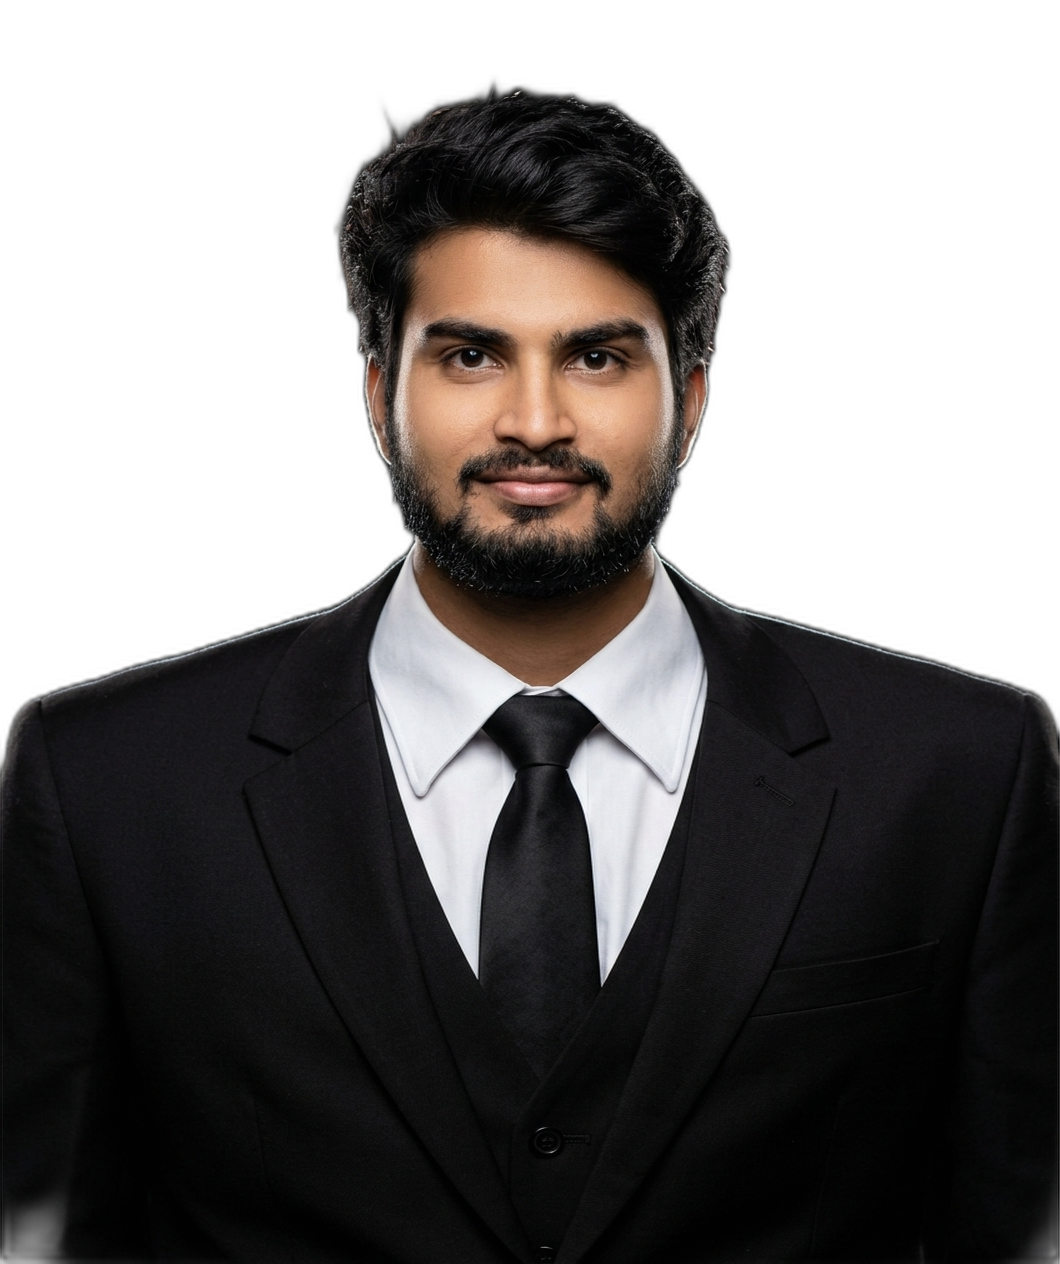
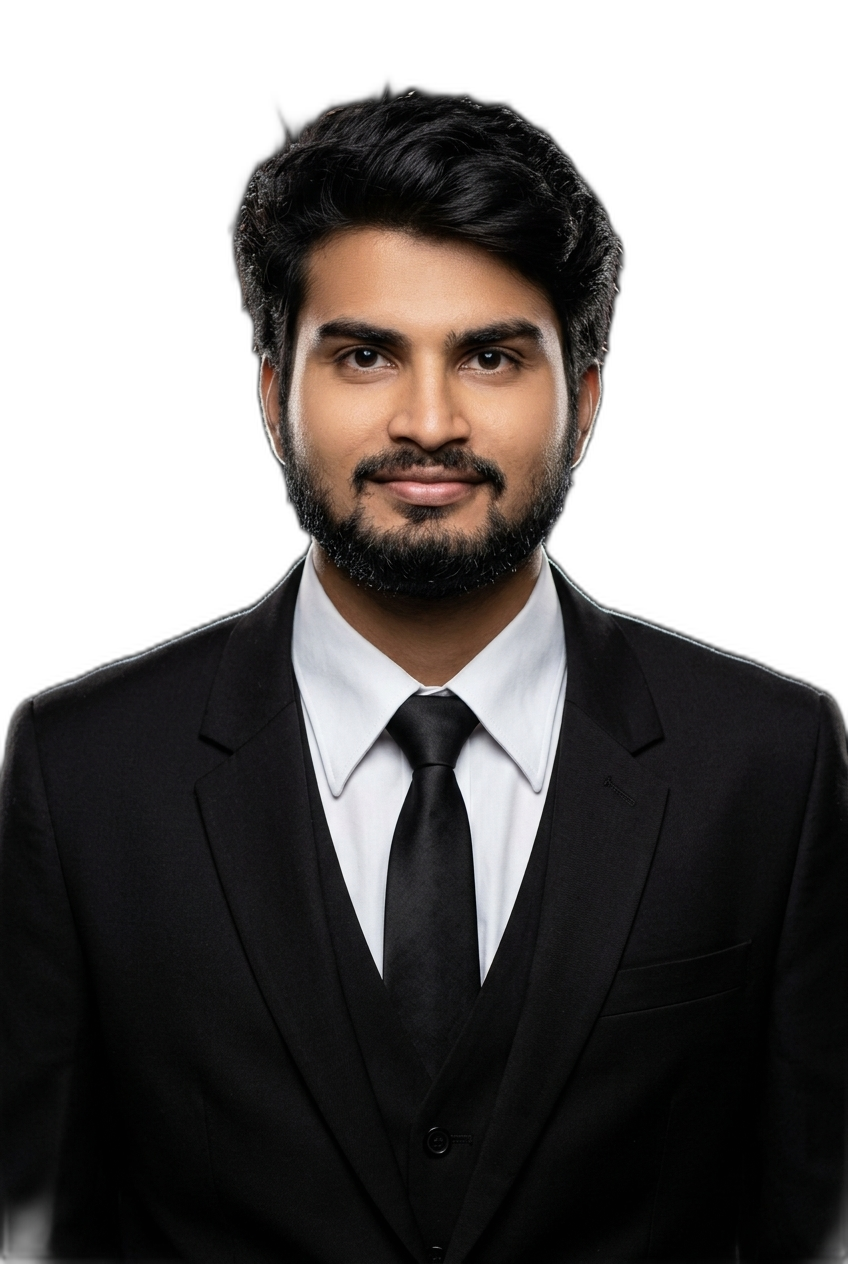
fix: adjust hero portrait to normal shoulder width and elevate background PORTFOLIO on mobile

Changed region(s): [[0.1226, 0.0617, 0.8892, 0.5554], [0.8892, 0.5245, 0.9505, 0.5554], [0.092, 0.5245, 0.1226, 0.5554]]

diff --git a/src/components/sections/Hero.jsx b/src/components/sections/Hero.jsx
@@ -30,15 +30,15 @@ export default function Hero({ onHoverSound, onClickSound }) {
           initial={{ opacity: 0, y: 30, scale: 0.95 }}
           animate={{ opacity: 1, y: 0, scale: 1 }}
           transition={{ duration: 1, ease: [0.16, 1, 0.3, 1] }}
-          className="relative z-10 w-full text-center pointer-events-none -mt-8 sm:-mt-16 md:-mt-20"
+          className="relative z-10 w-full text-center pointer-events-none -mt-40 sm:-mt-20 md:-mt-20"
         >
-          <h1 className="text-[13vw] sm:text-[15vw] font-black uppercase tracking-tight sm:tracking-normal leading-none font-display bg-gradient-to-b from-white via-zinc-200 to-zinc-600 bg-clip-text text-transparent drop-shadow-[0_20px_50px_rgba(0,0,0,0.9)]">
+          <h1 className="text-[17vw] sm:text-[15vw] font-black uppercase tracking-wider sm:tracking-normal leading-none font-display bg-gradient-to-b from-white via-zinc-100 to-zinc-400 bg-clip-text text-transparent drop-shadow-[0_20px_50px_rgba(0,0,0,0.9)]">
             PORTFOLIO
           </h1>
         </motion.div>
 
         {/* Layer 2: Dedicated Soft Studio Gray Backlight behind Head for Hair Definition */}
-        <div className="absolute bottom-12 left-1/2 -translate-x-1/2 z-15 w-[min(420px,90vw)] sm:w-[540px] h-[50vh] sm:h-[55vh] pointer-events-none bg-[radial-gradient(circle_at_50%_35%,rgba(180,185,195,0.32)_0%,rgba(110,115,125,0.16)_40%,transparent_70%)]" />
+        <div className="absolute bottom-12 left-1/2 -translate-x-1/2 z-15 w-[min(360px,84vw)] sm:w-[480px] h-[50vh] sm:h-[55vh] pointer-events-none bg-[radial-gradient(circle_at_50%_35%,rgba(180,185,195,0.32)_0%,rgba(110,115,125,0.16)_40%,transparent_70%)]" />
 
         {/* Layer 3: Foreground Executive 3D Portrait Layered over TF (Static, Stable, High-Dimension) */}
         <motion.div
@@ -47,7 +47,7 @@ export default function Hero({ onHoverSound, onClickSound }) {
           transition={{ duration: 1, ease: [0.16, 1, 0.3, 1] }}
           className="absolute bottom-0 left-1/2 -translate-x-1/2 z-20 pointer-events-none flex justify-center items-end w-full"
         >
-          <div className="relative w-[min(380px,86vw)] sm:w-[460px] md:w-[540px] lg:w-[620px] h-[50vh] sm:h-[65vh] md:h-[72vh] max-h-[680px]">
+          <div className="relative w-[min(320px,76vw)] sm:w-[400px] md:w-[480px] lg:w-[540px] h-[50vh] sm:h-[65vh] md:h-[72vh] max-h-[680px]">
             <img
               src="/assets/manohar_hero.png"
               alt="Manohar Akuthota - Executive Software Developer"
